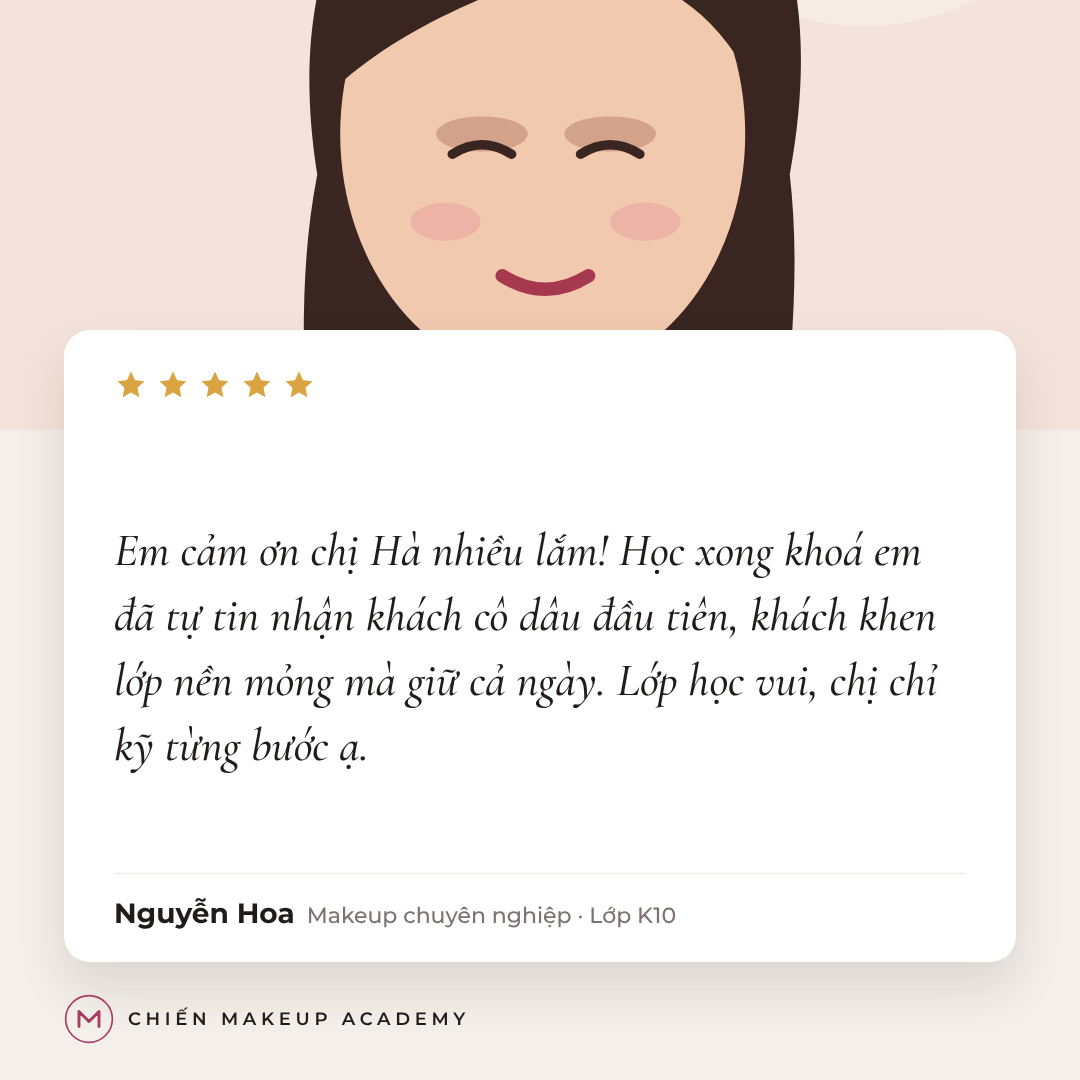
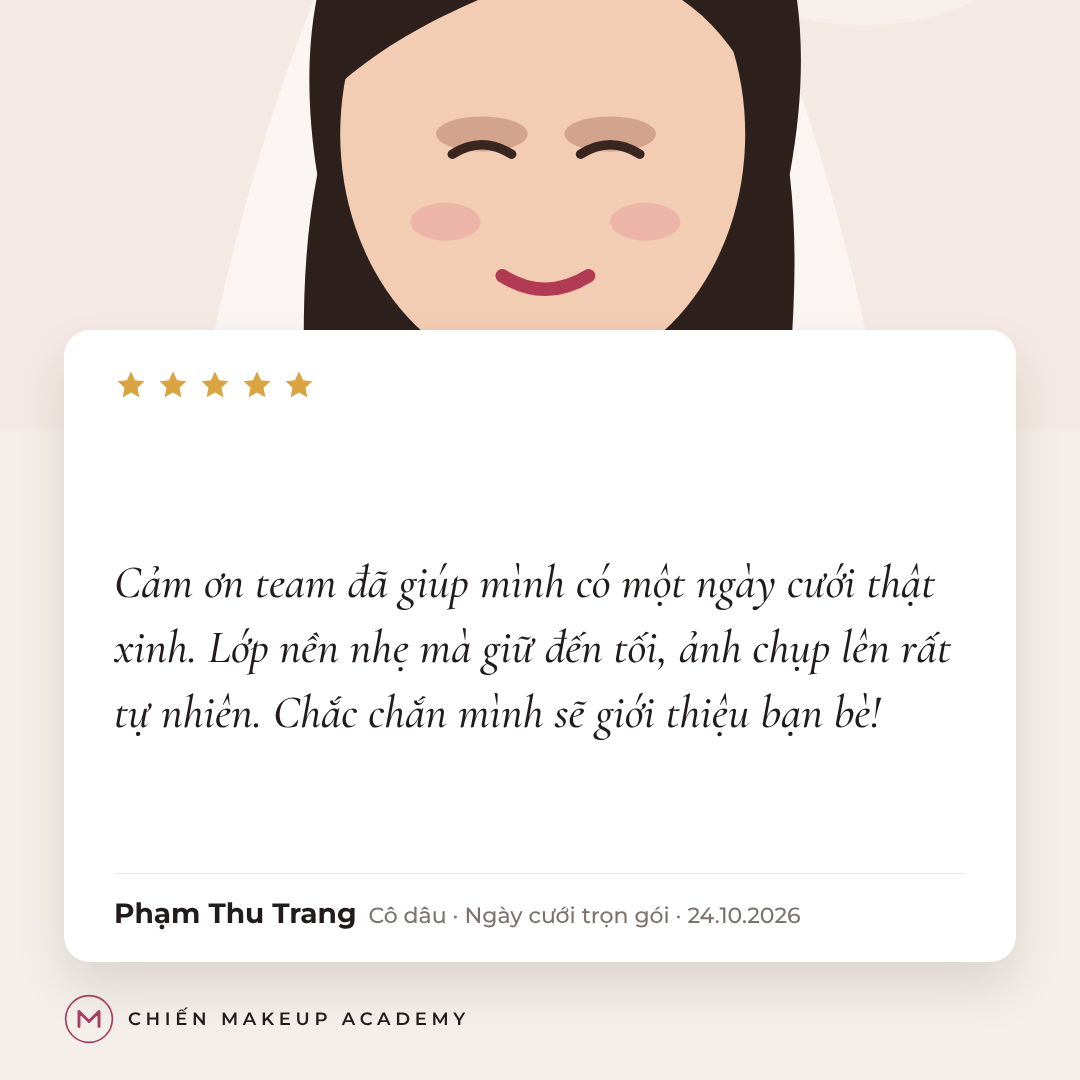
WIP các thợ đang làm (I, K, L, R&D 1–2, W4–W6) — CHƯA nghiệm thu, bản chụp hiện trạng
Claude-Session: https://claude.ai/code/session_01JtcbzsRF6LmqL5L8fC9fxM

Changed region(s): [[0.0917, 0.4889, 0.8861, 0.7028], [0.0917, 0.825, 0.7333, 0.8556]]

diff --git a/docs/rnd/v3-mau-loi-chuc/lc-06.html b/docs/rnd/v3-mau-loi-chuc/lc-06.html
@@ -1,0 +1,32 @@
+<!doctype html>
+<html lang="vi"><head><meta charset="utf-8"><meta name="viewport" content="width=1080">
+<title>Lời chúc lc-06 – Thiệp hoa lá gửi mẹ cô dâu</title>
+<!-- Makeup Pro · R&D vòng 3 · Mẫu lời chúc · Dùng cho: hợp đồng dịch vụ
+     Nguồn ý tưởng: Tự sáng tác (cùng họ với shd-09)
+     Ô dữ liệu: logo (Logo), th (Tên thương hiệu), a1 (Ảnh 1), td (Tiêu đề lời chúc), kh (Tên khách/học viên), cc (Câu chúc), nv (Nhân vật makeup), nsk (Ngày sự kiện)
+     Phông: MP Viết tay 3, MP Chữ có chân, MP Chữ không chân — khai báo ở ../v3-mau-chao-mung/phong/phong.css (phông viết tay là PHÔNG TẠM, thay một chỗ trong tệp đó).
+     Khổ: mặc định 1080×1350; thêm ?kho=vuong để ra 1080×1080. Thay dữ liệu bằng tham số đường dẫn (xem chung/mau.js).
+     Ảnh người và logo mặc định: vector do R&D tự vẽ. -->
+<link rel="stylesheet" href="../v3-mau-chao-mung/phong/phong.css"><link rel="stylesheet" href="../v3-mau-chao-mung/chung/mau.css">
+<style>
+#c{background:#F7ECE6;color:#3A2A27}
+.lf1{position:absolute;width:300px;height:300px;left:30px;bottom:30px}
+.lf2{position:absolute;width:300px;height:300px;right:30px;top:30px;transform:rotate(180deg)}
+.w{position:absolute;inset:0;display:flex;flex-direction:column;align-items:center;text-align:center;padding:66px 100px 58px}
+.top{display:flex;flex-direction:column;align-items:center;gap:10px}.top img{width:58px;height:58px}
+.th{font:500 17px var(--f-sans);letter-spacing:.32em;text-transform:uppercase;color:#9A6A5C}
+.cir{width:330px;height:330px;border-radius:50%;overflow:hidden;box-shadow:0 0 0 10px #F7ECE6,0 0 0 11.5px #B88A7C;margin-top:40px;flex:none}
+.td{font-family:var(--f-tay-3);font-size:calc(88px*var(--tay-co-3));color:#A0475C;margin-top:34px;line-height:1.05}
+.dg{font:italic 400 30px var(--f-chan);color:#6B4E47;margin-top:8px}
+.kh{font:600 46px/1.15 var(--f-chan);width:100%}
+.cc{font:italic 500 32px/1.45 var(--f-chan);color:#4A3632;margin-top:14px;flex:1 1 0;min-height:0;overflow:hidden;display:flex;flex-direction:column;justify-content:center}
+.ft{font:500 16px var(--f-sans);letter-spacing:.26em;text-transform:uppercase;color:#9A6A5C}
+.vuong .cir{width:210px;height:210px;margin-top:24px}.vuong .td{margin-top:18px;font-size:calc(74px*var(--tay-co-3))}.vuong .w{padding:46px 100px 40px}
+</style></head><body><div id="c"><div class="lf1"><svg viewBox="0 0 300 300" fill="none" stroke="#B88A7C" stroke-width="1.4"><path d="M20 280 C80 200 120 140 260 30"/><path d="M60 230 q-30 -40 10 -70 q20 40 -10 70z"/><path d="M75 222 q40 -10 70 10 q-40 20 -70 -10z"/><path d="M100 190 q-29 -40 10 -70 q20 40 -10 70z"/><path d="M115 182 q40 -10 70 10 q-40 20 -70 -10z"/><path d="M140 150 q-28 -40 10 -70 q20 40 -10 70z"/><path d="M155 142 q40 -10 70 10 q-40 20 -70 -10z"/><path d="M180 110 q-27 -40 10 -70 q20 40 -10 70z"/><path d="M195 102 q40 -10 70 10 q-40 20 -70 -10z"/><path d="M220 70 q-26 -40 10 -70 q20 40 -10 70z"/><path d="M235 62 q40 -10 70 10 q-40 20 -70 -10z"/></svg></div><div class="lf2"><svg viewBox="0 0 300 300" fill="none" stroke="#B88A7C" stroke-width="1.4"><path d="M20 280 C80 200 120 140 260 30"/><path d="M60 230 q-30 -40 10 -70 q20 40 -10 70z"/><path d="M75 222 q40 -10 70 10 q-40 20 -70 -10z"/><path d="M100 190 q-29 -40 10 -70 q20 40 -10 70z"/><path d="M115 182 q40 -10 70 10 q-40 20 -70 -10z"/><path d="M140 150 q-28 -40 10 -70 q20 40 -10 70z"/><path d="M155 142 q40 -10 70 10 q-40 20 -70 -10z"/><path d="M180 110 q-27 -40 10 -70 q20 40 -10 70z"/><path d="M195 102 q40 -10 70 10 q-40 20 -70 -10z"/><path d="M220 70 q-26 -40 10 -70 q20 40 -10 70z"/><path d="M235 62 q40 -10 70 10 q-40 20 -70 -10z"/></svg></div><div class="w">
+<div class="top"><img data-f="logo" alt=""><span class="th" data-f="th"></span></div>
+<div class="cir"><img class="ph" data-f="a1" alt=""></div>
+<div class="td" data-f="td" data-fit="1"></div><div class="dg">Thân gửi</div><div class="kh" data-f="kh" data-fit="1"></div>
+<div class="cc" data-fitc="34"><span data-f="cc"></span></div>
+<div class="ft"><span data-f="nv"></span> · Lễ cưới <span data-f="nskCham"></span></div></div></div>
+<script>window.MAC_DINH={"td": "Chúc mừng gia đình", "cc": "Chúc mừng gia đình đón thêm niềm vui lớn. Cảm ơn cô đã cho chúng con được chăm chút cho cô trong ngày đặc biệt này. Chúc cô luôn mạnh khoẻ và an vui.", "loai": "dv", "nv": "Mẹ cô dâu", "kh": "Nguyễn Thị Lan", "goi": "Mẹ – Trang điểm nhẹ nhàng", "a1": "../v3-mau-chao-mung/chung/anh-me-co-dau.svg"};</script>
+<script src="../v3-mau-chao-mung/chung/qrcode.js"></script><script src="../v3-mau-chao-mung/chung/mau.js"></script></body></html>

diff --git a/docs/rnd/v3-mau-loi-chuc/lc-05.html b/docs/rnd/v3-mau-loi-chuc/lc-05.html
@@ -1,0 +1,34 @@
+<!doctype html>
+<html lang="vi"><head><meta charset="utf-8"><meta name="viewport" content="width=1080">
+<title>Lời chúc lc-05 – Chúc mừng hoàn thành khoá học</title>
+<!-- Makeup Pro · R&D vòng 3 · Mẫu lời chúc · Dùng cho: hợp đồng khoá học
+     Nguồn ý tưởng: Tự sáng tác (cùng họ với shd-10)
+     Ô dữ liệu: logo (Logo), th (Tên thương hiệu), anh (Ảnh học viên), td (Tiêu đề lời chúc), ten (Tên học viên), cc (Câu chúc), khoa (Tên khoá), lop (Mã lớp), nkt (Ngày hoàn thành khoá), gv (Giảng viên)
+     Phông: MP Viết tay 1, MP Viết tay 3, MP Chữ có chân, MP Chữ không chân — khai báo ở ../v3-mau-chao-mung/phong/phong.css (phông viết tay là PHÔNG TẠM, thay một chỗ trong tệp đó).
+     Khổ: mặc định 1080×1350; thêm ?kho=vuong để ra 1080×1080. Thay dữ liệu bằng tham số đường dẫn (xem chung/mau.js).
+     Ảnh người và logo mặc định: vector do R&D tự vẽ. -->
+<link rel="stylesheet" href="../v3-mau-chao-mung/phong/phong.css"><link rel="stylesheet" href="../v3-mau-chao-mung/chung/mau.css">
+<style>
+#c{background:#1C2333;color:#EFE3CC}
+.fr{position:absolute;inset:40px;border:1px solid rgba(230,211,179,.45)}
+.w{position:absolute;inset:40px;display:flex;flex-direction:column;align-items:center;text-align:center;padding:56px 80px 52px}
+.top{display:flex;align-items:center;gap:14px}
+.ld{width:58px;height:58px;border-radius:50%;background:#EFE3CC;display:grid;place-items:center}.ld img{width:46px;height:46px}
+.th{font:500 18px var(--f-sans);letter-spacing:.28em;text-transform:uppercase;color:#E6D3B3}
+.cir{width:260px;height:260px;border-radius:50%;overflow:hidden;border:2px solid #E6D3B3;margin-top:48px;flex:none}
+.td{font-family:var(--f-tay-1);font-size:calc(96px*var(--tay-co-1));line-height:1.1;color:#E6D3B3;margin-top:34px}
+.ten{font:600 50px/1.15 var(--f-chan);margin-top:4px;width:100%}
+.kh{font:500 19px var(--f-sans);letter-spacing:.26em;text-transform:uppercase;color:#CDBB9C;margin-top:14px}
+.cc{font:400 33px/1.5 var(--f-chan);margin-top:16px;flex:1 1 0;min-height:0;overflow:hidden;display:flex;flex-direction:column;justify-content:center}
+.sg{display:flex;justify-content:space-between;align-items:flex-end;width:100%;text-align:left}
+.sg .n{font-family:var(--f-tay-3);font-size:calc(56px*var(--tay-co-3));color:#E6D3B3;line-height:1.1}
+.sg .r{font:500 15px var(--f-sans);letter-spacing:.24em;text-transform:uppercase;color:#A99C86;margin-top:4px}
+.vuong .cir{width:170px;height:170px;margin-top:30px}.vuong .td{margin-top:18px;font-size:calc(80px*var(--tay-co-1))}.vuong .w{padding:42px 70px 40px}.vuong .ten{font-size:42px}
+</style></head><body><div id="c"><div class="fr"></div><div class="w"><div class="top"><span class="ld"><img data-f="logo" alt=""></span><span class="th" data-f="th"></span></div>
+<div class="cir"><img class="ph" data-f="anh" alt=""></div>
+<div class="td" data-f="td" data-fit="1"></div><div class="ten" data-f="ten" data-fit="2"></div>
+<div class="kh"><span data-f="khoa"></span> · Lớp <span data-f="lop"></span></div>
+<div class="cc" data-fitc="35"><span data-f="cc"></span></div>
+<div class="sg"><div><div class="n" data-f="gv"></div><div class="r">Giảng viên</div></div><div style="text-align:right"><div class="r">Hoàn thành</div><div class="r" style="color:#EFE3CC" data-f="nktCham"></div></div></div></div></div>
+<script>window.MAC_DINH={"td": "Chúc mừng em", "cc": "Chúc mừng em đã hoàn thành khoá học. Chúc em vững tay nghề, tự tin trên con đường trở thành chuyên viên trang điểm.", "loai": "khoa", "ten": "Nguyễn Hoa", "khoa": "Makeup chuyên nghiệp", "lop": "K10"};</script>
+<script src="../v3-mau-chao-mung/chung/qrcode.js"></script><script src="../v3-mau-chao-mung/chung/mau.js"></script></body></html>

diff --git a/docs/rnd/v3-mau-loi-chuc/lc-04.html b/docs/rnd/v3-mau-loi-chuc/lc-04.html
@@ -1,0 +1,32 @@
+<!doctype html>
+<html lang="vi"><head><meta charset="utf-8"><meta name="viewport" content="width=1080">
+<title>Lời chúc lc-04 – Hai ảnh nghiêng, xanh rêu</title>
+<!-- Makeup Pro · R&D vòng 3 · Mẫu lời chúc · Dùng cho: hợp đồng dịch vụ
+     Nguồn ý tưởng: Tự sáng tác
+     Ô dữ liệu: a1 (Ảnh 1), a2 (Ảnh 2), td (Tiêu đề lời chúc), kh (Tên khách/học viên), cc (Câu chúc), nsk (Ngày sự kiện), logo (Logo), th (Tên thương hiệu)
+     Phông: MP Viết tay 1, MP Chữ có chân, MP Chữ không chân — khai báo ở ../v3-mau-chao-mung/phong/phong.css (phông viết tay là PHÔNG TẠM, thay một chỗ trong tệp đó).
+     Khổ: mặc định 1080×1350; thêm ?kho=vuong để ra 1080×1080. Thay dữ liệu bằng tham số đường dẫn (xem chung/mau.js).
+     Ảnh người và logo mặc định: vector do R&D tự vẽ. -->
+<link rel="stylesheet" href="../v3-mau-chao-mung/phong/phong.css"><link rel="stylesheet" href="../v3-mau-chao-mung/chung/mau.css">
+<style>
+#c{background:#1F3A33;color:#EFE7DA}
+.w{position:absolute;inset:0;display:flex;flex-direction:column;align-items:center;text-align:center;padding:60px 80px 54px}
+.top{display:flex;align-items:center;gap:14px}
+.ld{width:58px;height:58px;border-radius:50%;background:#EFE7DA;display:grid;place-items:center}.ld img{width:46px;height:46px}
+.th{font:500 18px var(--f-sans);letter-spacing:.3em;text-transform:uppercase;color:#C9B99A}
+.ph2{position:relative;width:640px;height:470px;margin-top:40px;flex:none}
+.ph2 div{position:absolute;width:330px;height:420px;background:#F6F1E8;padding:12px;box-shadow:0 18px 34px rgba(0,0,0,.25)}
+.ph2 div img{width:100%;height:100%;object-fit:cover}
+.ph2 .p1{left:20px;top:30px;transform:rotate(-6deg)}.ph2 .p2{right:20px;top:10px;transform:rotate(5deg)}
+.td{font-family:var(--f-tay-1);font-size:calc(92px*var(--tay-co-1));line-height:1.1;margin-top:34px;width:100%}
+.kh{font:600 42px/1.15 var(--f-chan);margin-top:4px;width:100%}
+.cc{font:italic 400 32px/1.45 var(--f-chan);color:#DCD3C3;margin-top:14px;flex:1 1 0;min-height:0;overflow:hidden;display:flex;flex-direction:column;justify-content:center}
+.ft{font:500 17px var(--f-sans);letter-spacing:.26em;text-transform:uppercase;color:#C9B99A}
+.vuong .ph2{width:520px;height:330px;margin-top:26px}.vuong .ph2 div{width:250px;height:300px}.vuong .td{margin-top:20px;font-size:calc(76px*var(--tay-co-1))}.vuong .w{padding:44px 80px 40px}
+</style></head><body><div id="c"><div class="w"><div class="top"><span class="ld"><img data-f="logo" alt=""></span><span class="th" data-f="th"></span></div>
+<div class="ph2"><div class="p1"><img data-f="a1" alt=""></div><div class="p2"><img data-f="a2" alt=""></div></div>
+<div class="td" data-f="td" data-fit="1"></div><div class="kh" data-f="kh" data-fit="1"></div>
+<div class="cc" data-fitc="34"><span data-f="cc"></span></div>
+<div class="ft"><span data-f="goi"></span> · <span data-f="nskCham"></span></div></div></div>
+<script>window.MAC_DINH={"td": "Chúc mừng lễ ăn hỏi", "cc": "Chúc mừng lễ ăn hỏi của hai bạn. Chúc chặng đường phía trước luôn ngập tràn yêu thương, thấu hiểu và bình an.", "loai": "dv", "goi": "Cô dâu – Lễ ăn hỏi", "nsk": "08/11/2026", "kh": "Hoàng Bảo Anh"};</script>
+<script src="../v3-mau-chao-mung/chung/qrcode.js"></script><script src="../v3-mau-chao-mung/chung/mau.js"></script></body></html>

diff --git a/docs/rnd/v3-mau-loi-chuc/lc-01.html b/docs/rnd/v3-mau-loi-chuc/lc-01.html
@@ -1,0 +1,31 @@
+<!doctype html>
+<html lang="vi"><head><meta charset="utf-8"><meta name="viewport" content="width=1080">
+<title>Lời chúc lc-01 – Thiệp kem chúc mừng ngày cưới</title>
+<!-- Makeup Pro · R&D vòng 3 · Mẫu lời chúc · Dùng cho: hợp đồng dịch vụ
+     Nguồn ý tưởng: Tự sáng tác (cùng họ với shd-01 thư mời kem)
+     Ô dữ liệu: logo (Logo), th (Tên thương hiệu), a1 (Ảnh 1), nv (Nhân vật makeup), kh (Tên khách/học viên), td (Tiêu đề lời chúc), cc (Câu chúc), nsk (Ngày sự kiện)
+     Phông: MP Viết tay 1, MP Chữ có chân, MP Chữ không chân — khai báo ở ../v3-mau-chao-mung/phong/phong.css (phông viết tay là PHÔNG TẠM, thay một chỗ trong tệp đó).
+     Khổ: mặc định 1080×1350; thêm ?kho=vuong để ra 1080×1080. Thay dữ liệu bằng tham số đường dẫn (xem chung/mau.js).
+     Ảnh người và logo mặc định: vector do R&D tự vẽ. -->
+<link rel="stylesheet" href="../v3-mau-chao-mung/phong/phong.css"><link rel="stylesheet" href="../v3-mau-chao-mung/chung/mau.css">
+<style>
+#c{background:#F5EFE4;color:#2A2420}
+.b1{position:absolute;inset:40px;border:1.5px solid #B8975A}.b2{position:absolute;inset:52px;border:.75px solid #B8975A}
+.w{position:absolute;inset:52px;display:flex;flex-direction:column;align-items:center;text-align:center;padding:50px 80px 46px}
+.top{display:flex;align-items:center;gap:12px}.top img{width:54px;height:54px}.top span{font:500 18px var(--f-sans);letter-spacing:.3em;text-transform:uppercase;color:#7A6340}
+.ov{width:340px;height:420px;border-radius:50%;overflow:hidden;box-shadow:0 0 0 10px #F5EFE4,0 0 0 11.5px #B8975A;margin-top:38px;flex:none}
+.td{font-family:var(--f-tay-1);font-size:calc(96px*var(--tay-co-1));line-height:1.1;color:#8C6A3E;margin-top:34px}
+.dg{font:italic 400 30px var(--f-chan);color:#5C4E3E;margin-top:10px}
+.kh{font:600 46px/1.15 var(--f-chan);letter-spacing:.04em;text-transform:uppercase;width:100%}
+.cc{font:italic 500 33px/1.45 var(--f-chan);margin-top:18px;flex:1 1 0;min-height:0;overflow:hidden;display:flex;flex-direction:column;justify-content:center}
+.ft{font:500 17px var(--f-sans);letter-spacing:.28em;text-transform:uppercase;color:#7A6340}
+.vuong .ov{width:220px;height:270px;margin-top:24px}.vuong .td{margin-top:20px;font-size:calc(80px*var(--tay-co-1))}.vuong .w{padding:38px 70px 34px}.vuong .kh{font-size:40px}
+</style></head><body><div id="c"><div class="b1"></div><div class="b2"></div><div class="w">
+<div class="top"><img data-f="logo" alt=""><span data-f="th"></span></div>
+<div class="ov"><img class="ph" data-f="a1" alt=""></div>
+<div class="td" data-f="td" data-fit="1"></div>
+<div class="dg">Thân gửi <span data-f="nvThuong"></span></div><div class="kh" data-f="kh" data-fit="2"></div>
+<div class="cc" data-fitc="36"><span data-f="cc"></span></div>
+<div class="ft" data-f="nskChu"></div></div></div>
+<script>window.MAC_DINH={"td": "Trăm năm hạnh phúc", "cc": "Chúc hai bạn trăm năm hạnh phúc, luôn giữ trọn yêu thương như ngày hôm nay. Cảm ơn bạn đã tin tưởng để chúng tôi được góp một phần nhỏ vào ngày trọng đại.", "loai": "dv"};</script>
+<script src="../v3-mau-chao-mung/chung/qrcode.js"></script><script src="../v3-mau-chao-mung/chung/mau.js"></script></body></html>

diff --git a/docs/rnd/v3-mau-loi-chuc/lc-02.html b/docs/rnd/v3-mau-loi-chuc/lc-02.html
@@ -1,0 +1,30 @@
+<!doctype html>
+<html lang="vi"><head><meta charset="utf-8"><meta name="viewport" content="width=1080">
+<title>Lời chúc lc-02 – Đen vàng cảm ơn đã tin chọn</title>
+<!-- Makeup Pro · R&D vòng 3 · Mẫu lời chúc · Dùng cho: cả hợp đồng khoá học và dịch vụ (?loai=khoa|dv)
+     Nguồn ý tưởng: Tự sáng tác (cùng họ với shd-02)
+     Ô dữ liệu: logo (Logo), th (Tên thương hiệu), a1 (Ảnh 1), td (Tiêu đề lời chúc), kh (Tên khách/học viên), cc (Câu chúc), dv (Khoá học hoặc dịch vụ)
+     Phông: MP Viết tay 1, MP Chữ có chân, MP Chữ không chân — khai báo ở ../v3-mau-chao-mung/phong/phong.css (phông viết tay là PHÔNG TẠM, thay một chỗ trong tệp đó).
+     Khổ: mặc định 1080×1350; thêm ?kho=vuong để ra 1080×1080. Thay dữ liệu bằng tham số đường dẫn (xem chung/mau.js).
+     Ảnh người và logo mặc định: vector do R&D tự vẽ. -->
+<link rel="stylesheet" href="../v3-mau-chao-mung/phong/phong.css"><link rel="stylesheet" href="../v3-mau-chao-mung/chung/mau.css">
+<style>
+#c{background:#131212;color:#F3EBDD}
+.fr{position:absolute;inset:36px;border:1px solid #C9A961}
+.w{position:absolute;inset:36px;display:flex;flex-direction:column;align-items:center;text-align:center;padding:54px 80px 48px}
+.top{display:flex;align-items:center;gap:14px}
+.ld{width:60px;height:60px;border-radius:50%;background:#F3EBDD;display:grid;place-items:center}.ld img{width:48px;height:48px}
+.th{font:500 19px var(--f-sans);letter-spacing:.3em;color:#C9A961;text-transform:uppercase}
+.ar{width:400px;height:470px;border-radius:200px 200px 0 0;overflow:hidden;outline:1px solid #C9A961;outline-offset:12px;margin-top:52px;flex:none}
+.td{font-family:var(--f-tay-1);font-size:calc(88px*var(--tay-co-1));color:#C9A961;line-height:1.1;margin-top:40px;width:100%}
+.kh{font:600 44px/1.15 var(--f-chan);text-transform:uppercase;letter-spacing:.06em;margin-top:8px;width:100%}
+.cc{font:400 32px/1.5 var(--f-chan);color:#E5DCCB;margin-top:16px;flex:1 1 0;min-height:0;overflow:hidden;display:flex;flex-direction:column;justify-content:center}
+.ft{font:500 17px var(--f-sans);letter-spacing:.22em;color:#A59C8E;text-transform:uppercase}
+.vuong .ar{width:270px;height:300px;margin-top:34px}.vuong .td{margin-top:28px;font-size:calc(72px*var(--tay-co-1))}.vuong .w{padding:40px 80px 36px}.vuong .kh{font-size:38px}
+</style></head><body><div id="c"><div class="fr"></div><div class="w"><div class="top"><span class="ld"><img data-f="logo" alt=""></span><span class="th" data-f="th"></span></div>
+<div class="ar"><img class="ph" data-f="a1" alt=""></div>
+<div class="td" data-f="td" data-fit="2"></div><div class="kh" data-f="kh" data-fit="2"></div>
+<div class="cc" data-fitc="34"><span data-f="cc"></span></div>
+<div class="ft" data-f="dv" data-fitw style="white-space:nowrap;max-width:100%"></div></div></div>
+<script>window.MAC_DINH={"td": "Cảm ơn bạn đã tin chọn", "cc": "Cảm ơn bạn đã dành cho chúng tôi sự tin tưởng. Mong rằng mỗi khoảnh khắc trong ngày đặc biệt đều rạng rỡ như chính bạn.", "loai": "dv"};</script>
+<script src="../v3-mau-chao-mung/chung/qrcode.js"></script><script src="../v3-mau-chao-mung/chung/mau.js"></script></body></html>

diff --git a/docs/rnd/v3-mau-loi-chuc/lc-03.html b/docs/rnd/v3-mau-loi-chuc/lc-03.html
@@ -1,0 +1,29 @@
+<!doctype html>
+<html lang="vi"><head><meta charset="utf-8"><meta name="viewport" content="width=1080">
+<title>Lời chúc lc-03 – Ảnh lớn, khung trắng</title>
+<!-- Makeup Pro · R&D vòng 3 · Mẫu lời chúc · Dùng cho: hợp đồng dịch vụ
+     Nguồn ý tưởng: Tự sáng tác
+     Ô dữ liệu: a1 (Ảnh 1), logo (Logo), th (Tên thương hiệu), td (Tiêu đề lời chúc), kh (Tên khách/học viên), cc (Câu chúc), nv (Nhân vật makeup), goi (Tên gói), nsk (Ngày sự kiện)
+     Phông: MP Viết tay 3, MP Chữ có chân, MP Chữ không chân — khai báo ở ../v3-mau-chao-mung/phong/phong.css (phông viết tay là PHÔNG TẠM, thay một chỗ trong tệp đó).
+     Khổ: mặc định 1080×1350; thêm ?kho=vuong để ra 1080×1080. Thay dữ liệu bằng tham số đường dẫn (xem chung/mau.js).
+     Ảnh người và logo mặc định: vector do R&D tự vẽ. -->
+<link rel="stylesheet" href="../v3-mau-chao-mung/phong/phong.css"><link rel="stylesheet" href="../v3-mau-chao-mung/chung/mau.css">
+<style>
+#c{background:#000}
+.bgp{position:absolute;inset:0}
+.th0{position:absolute;left:56px;top:52px;display:flex;align-items:center;gap:12px;background:#FFFDF9;padding:10px 20px 10px 12px;border-radius:40px}
+.th0 img{width:42px;height:42px}.th0 span{font:600 16px var(--f-sans);letter-spacing:.24em;text-transform:uppercase;color:#2A2420}
+.pn{position:absolute;left:56px;right:56px;bottom:56px;height:540px;background:#FFFDF9;padding:40px 56px 38px;display:flex;flex-direction:column;color:#231E1D}
+.pn:before{content:"";position:absolute;inset:14px;border:1px solid #D9C9B0;pointer-events:none}
+.td{font-family:var(--f-tay-3);font-size:calc(92px*var(--tay-co-3));line-height:1.05;color:#A0475C}
+.kh{font:600 40px/1.2 var(--f-chan);margin-top:6px}
+.cc{font:italic 500 33px/1.45 var(--f-chan);margin-top:14px;flex:1 1 0;min-height:0;overflow:hidden}
+.ft{font:500 16px var(--f-sans);letter-spacing:.24em;text-transform:uppercase;color:#8B8079}
+.vuong .pn{height:470px;padding:34px 50px 32px}.vuong .td{font-size:calc(80px*var(--tay-co-3))}
+</style></head><body><div id="c"><div class="bgp"><img class="ph" data-f="a1" alt=""></div>
+<div class="th0"><img data-f="logo" alt=""><span data-f="th"></span></div>
+<div class="pn"><div class="td" data-f="td" data-fit="1"></div><div class="kh" data-f="kh" data-fit="1"></div>
+<div class="cc" data-f="cc" data-fitc="36"></div>
+<div class="ft"><span data-f="nv"></span> · <span data-f="goi"></span> · <span data-f="nskCham"></span></div></div></div>
+<script>window.MAC_DINH={"td": "Luôn toả sáng", "cc": "Cảm ơn bạn đã chọn chúng tôi cho ngày đặc biệt. Chúc bạn luôn tự tin và toả sáng theo cách riêng của mình.", "loai": "dv", "nv": "Khách dự tiệc", "goi": "Trang điểm dự tiệc", "kh": "Lê Minh Châu", "nsk": "31/10/2026", "a1": "../v3-mau-chao-mung/chung/anh-fb-2.svg"};</script>
+<script src="../v3-mau-chao-mung/chung/qrcode.js"></script><script src="../v3-mau-chao-mung/chung/mau.js"></script></body></html>

diff --git a/docs/rnd/v3-mau-feedback/fb-02.html b/docs/rnd/v3-mau-feedback/fb-02.html
@@ -1,7 +1,7 @@
 <!doctype html>
 <html lang="vi"><head><meta charset="utf-8"><meta name="viewport" content="width=1080">
 <title>Mẫu feedback fb-02 – Thẻ trắng nổi có sao</title>
-<!-- Makeup Pro · R&D vòng 3 · Mẫu feedback
+<!-- Makeup Pro · R&D vòng 3 · Mẫu feedback · Dùng cho: cả hợp đồng khoá học và dịch vụ (?loai=khoa|dv)
      Nguồn ý tưởng: Học từ ảnh 3–4 (thẻ trắng nổi, lời nhận xét, ảnh khách, sao đánh giá)
      Ô dữ liệu: nd (Nội dung lời khen), sao (Số sao), a1 (Ảnh 1), kh (Tên khách/học viên), dv (Khoá học hoặc dịch vụ), logo (Logo), th (Tên thương hiệu), web (Website)
      Phông: MP Chữ đậm có chân, MP Chữ không chân — khai báo ở ../v3-mau-chao-mung/phong/phong.css (phông viết tay là PHÔNG TẠM, thay một chỗ trong tệp đó).
@@ -22,9 +22,9 @@
 .ft{display:flex;align-items:center;gap:14px;margin-top:36px}.ft img{width:48px;height:48px}.ft span{font:600 18px var(--f-sans);letter-spacing:.24em;text-transform:uppercase}.ft i{font:400 20px var(--f-sans);color:#7C7370;font-style:normal}
 .vuong .w{padding:52px 80px 44px}.vuong .tt{font-size:52px}.vuong .cd{margin-top:30px;padding:44px 56px 38px}.vuong .nd{font-size:28px}
 .nd{display:flex;flex-direction:column;justify-content:center}
-</style></head><body><div id="c"><div class="w"><div class="tt">Cảm nhận của học viên</div>
+</style></head><body><div id="c"><div class="w"><div class="tt" data-f="camNhan"></div>
 <div class="cd"><div class="q">“</div><div class="sao" data-sao></div><div class="nd" data-f="nd" data-fitc="46"></div>
 <div class="pr"><div class="a"><img class="ph" data-f="a1" alt=""></div><div><b data-f="kh"></b><span data-f="dv"></span></div></div></div>
 <div class="ft"><img data-f="logo" alt=""><span data-f="th"></span><i>· <span data-f="web"></span></i></div></div></div>
-<script>window.MAC_DINH={};</script>
+<script>window.MAC_DINH={"loai": "dv"};</script>
 <script src="../v3-mau-chao-mung/chung/qrcode.js"></script><script src="../v3-mau-chao-mung/chung/mau.js"></script></body></html>

diff --git a/docs/rnd/v3-mau-feedback/fb-09.html b/docs/rnd/v3-mau-feedback/fb-09.html
@@ -1,7 +1,7 @@
 <!doctype html>
 <html lang="vi"><head><meta charset="utf-8"><meta name="viewport" content="width=1080">
 <title>Mẫu feedback fb-09 – Trước – sau</title>
-<!-- Makeup Pro · R&D vòng 3 · Mẫu feedback
+<!-- Makeup Pro · R&D vòng 3 · Mẫu feedback · Dùng cho: hợp đồng dịch vụ
      Nguồn ý tưởng: Tự sáng tác (hợp cho khách dịch vụ makeup)
      Ô dữ liệu: a1 (Ảnh 1), a2 (Ảnh 2), nd (Nội dung lời khen), kh (Tên khách/học viên), dv (Khoá học hoặc dịch vụ), logo (Logo), th (Tên thương hiệu)
      Phông: MP Chữ đậm có chân, MP Chữ không chân — khai báo ở ../v3-mau-chao-mung/phong/phong.css (phông viết tay là PHÔNG TẠM, thay một chỗ trong tệp đó).
@@ -25,5 +25,5 @@
 <div class="tt">Cảm nhận sau buổi makeup</div>
 <div class="ts"><div><img class="ph" data-f="a1" alt=""><em>TRƯỚC</em></div><div><img class="ph" data-f="a2" alt=""><em>SAU</em></div></div>
 <div class="nd" data-f="nd" data-fitc="40"></div><div class="pr"><b data-f="kh"></b><span data-f="dv"></span></div></div></div>
-<script>window.MAC_DINH={"a1": "../v3-mau-chao-mung/chung/anh-truoc.svg", "a2": "../v3-mau-chao-mung/chung/anh-sau.svg", "kh": "Phạm Thu Trang", "dv": "Makeup cô dâu · 16/10/2026", "nd": "Cảm ơn team đã giúp mình có một ngày cưới thật xinh. Lớp nền nhẹ mà giữ đến tối, ảnh chụp lên rất tự nhiên. Chắc chắn sẽ giới thiệu bạn bè!"};</script>
+<script>window.MAC_DINH={"a1": "../v3-mau-chao-mung/chung/anh-truoc.svg", "a2": "../v3-mau-chao-mung/chung/anh-sau.svg", "loai": "dv"};</script>
 <script src="../v3-mau-chao-mung/chung/qrcode.js"></script><script src="../v3-mau-chao-mung/chung/mau.js"></script></body></html>

diff --git a/docs/rnd/v3-mau-feedback/fb-01.html b/docs/rnd/v3-mau-feedback/fb-01.html
@@ -1,7 +1,7 @@
 <!doctype html>
 <html lang="vi"><head><meta charset="utf-8"><meta name="viewport" content="width=1080">
 <title>Mẫu feedback fb-01 – Tin nhắn và ảnh polaroid</title>
-<!-- Makeup Pro · R&D vòng 3 · Mẫu feedback
+<!-- Makeup Pro · R&D vòng 3 · Mẫu feedback · Dùng cho: cả hợp đồng khoá học và dịch vụ (?loai=khoa|dv)
      Nguồn ý tưởng: Học từ ảnh 2 (bong bóng tin nhắn, polaroid nghiêng, chữ viết tay cảm ơn)
      Ô dữ liệu: logo (Logo), th (Tên thương hiệu), nd (Nội dung lời khen), a1 (Ảnh 1), kh (Tên khách/học viên), dv (Khoá học hoặc dịch vụ)
      Phông: MP Viết tay 3, MP Chữ không chân — khai báo ở ../v3-mau-chao-mung/phong/phong.css (phông viết tay là PHÔNG TẠM, thay một chỗ trong tệp đó).
@@ -26,9 +26,9 @@
 .vuong .pol{width:330px}.vuong .pol .p{height:330px}.vuong .k1{margin-top:28px}
 .row .chat{justify-content:center}
 </style></head><body><div id="c"><div class="w"><div class="top"><img data-f="logo" alt=""><span class="th" data-f="th"></span></div>
-<div class="k1">Học viên nhắn cho lớp</div>
+<div class="k1" data-f="nhanFb"></div>
 <div class="row"><div class="chat" data-chat="3" data-fitc="38"></div>
 <div class="pol"><div class="p"><img class="ph" data-f="a1" alt=""></div><div class="c">Cảm ơn nhiều!</div></div></div>
 <div class="ft"><b data-f="kh"></b><span data-f="dv"></span></div></div></div>
-<script>window.MAC_DINH={};</script>
+<script>window.MAC_DINH={"loai": "khoa"};</script>
 <script src="../v3-mau-chao-mung/chung/qrcode.js"></script><script src="../v3-mau-chao-mung/chung/mau.js"></script></body></html>

diff --git a/docs/rnd/v3-mau-feedback/fb-07.html b/docs/rnd/v3-mau-feedback/fb-07.html
@@ -1,7 +1,7 @@
 <!doctype html>
 <html lang="vi"><head><meta charset="utf-8"><meta name="viewport" content="width=1080">
 <title>Mẫu feedback fb-07 – Khung điện thoại tin nhắn</title>
-<!-- Makeup Pro · R&D vòng 3 · Mẫu feedback
+<!-- Makeup Pro · R&D vòng 3 · Mẫu feedback · Dùng cho: cả hợp đồng khoá học và dịch vụ (?loai=khoa|dv)
      Nguồn ý tưởng: Học từ ảnh 2 (nội dung dạng tin nhắn) — biến thể khung điện thoại
      Ô dữ liệu: a1 (Ảnh 1), kh (Tên khách/học viên), nd (Nội dung lời khen), nfb (Ngày nhận lời khen), dv (Khoá học hoặc dịch vụ), logo (Logo), th (Tên thương hiệu)
      Phông: MP Viết tay 1, MP Chữ không chân — khai báo ở ../v3-mau-chao-mung/phong/phong.css (phông viết tay là PHÔNG TẠM, thay một chỗ trong tệp đó).
@@ -25,5 +25,5 @@
 </style></head><body><div id="c"><div class="ph0"><div class="sc"><div class="hd"><div class="a"><img class="ph" data-f="a1" alt=""></div><div><b data-f="kh"></b><span data-f="nfbCham"></span></div></div>
 <div class="chat" data-chat="3" data-fitc="32"></div></div></div>
 <div class="rt"><img class="lg" data-f="logo" alt=""><div class="th" data-f="th"></div><div class="hw">Cảm ơn bạn đã tin tưởng</div><div class="dv" data-f="dv"></div></div></div>
-<script>window.MAC_DINH={};</script>
+<script>window.MAC_DINH={"loai": "dv"};</script>
 <script src="../v3-mau-chao-mung/chung/qrcode.js"></script><script src="../v3-mau-chao-mung/chung/mau.js"></script></body></html>

diff --git a/docs/rnd/v3-mau-feedback/fb-04.html b/docs/rnd/v3-mau-feedback/fb-04.html
@@ -1,7 +1,7 @@
 <!doctype html>
 <html lang="vi"><head><meta charset="utf-8"><meta name="viewport" content="width=1080">
 <title>Mẫu feedback fb-04 – Thư cảm ơn nền kem</title>
-<!-- Makeup Pro · R&D vòng 3 · Mẫu feedback
+<!-- Makeup Pro · R&D vòng 3 · Mẫu feedback · Dùng cho: cả hợp đồng khoá học và dịch vụ (?loai=khoa|dv)
      Nguồn ý tưởng: Tự sáng tác
      Ô dữ liệu: nd (Nội dung lời khen), kh (Tên khách/học viên), dv (Khoá học hoặc dịch vụ), nfb (Ngày nhận lời khen), a1 (Ảnh 1), a2 (Ảnh 2), a3 (Ảnh 3), logo (Logo), th (Tên thương hiệu)
      Phông: MP Viết tay 1, MP Viết tay 3, MP Chữ có chân, MP Chữ không chân — khai báo ở ../v3-mau-chao-mung/phong/phong.css (phông viết tay là PHÔNG TẠM, thay một chỗ trong tệp đó).
@@ -24,5 +24,5 @@
 <div class="sg" data-f="kh"></div><div class="mt"><span data-f="dv"></span> · <span data-f="nfbCham"></span></div>
 <div class="ph3"><div><img class="ph" data-f="a1" alt=""></div><div><img class="ph" data-f="a2" alt=""></div><div><img class="ph" data-f="a3" alt=""></div></div>
 <div class="ft"><img data-f="logo" alt=""><span data-f="th"></span></div></div></div>
-<script>window.MAC_DINH={};</script>
+<script>window.MAC_DINH={"loai": "khoa"};</script>
 <script src="../v3-mau-chao-mung/chung/qrcode.js"></script><script src="../v3-mau-chao-mung/chung/mau.js"></script></body></html>

diff --git a/docs/rnd/v3-mau-feedback/fb-06.html b/docs/rnd/v3-mau-feedback/fb-06.html
@@ -1,7 +1,7 @@
 <!doctype html>
 <html lang="vi"><head><meta charset="utf-8"><meta name="viewport" content="width=1080">
 <title>Mẫu feedback fb-06 – Lưới ba ảnh</title>
-<!-- Makeup Pro · R&D vòng 3 · Mẫu feedback
+<!-- Makeup Pro · R&D vòng 3 · Mẫu feedback · Dùng cho: cả hợp đồng khoá học và dịch vụ (?loai=khoa|dv)
      Nguồn ý tưởng: Tự sáng tác
      Ô dữ liệu: a1 (Ảnh 1), a2 (Ảnh 2), a3 (Ảnh 3), nd (Nội dung lời khen), kh (Tên khách/học viên), dv (Khoá học hoặc dịch vụ), logo (Logo), th (Tên thương hiệu)
      Phông: MP Chữ có chân, MP Chữ không chân — khai báo ở ../v3-mau-chao-mung/phong/phong.css (phông viết tay là PHÔNG TẠM, thay một chỗ trong tệp đó).
@@ -21,5 +21,5 @@
 </style></head><body><div id="c"><div class="gr"><div><img class="ph" data-f="a1" alt=""></div><div><img class="ph" data-f="a2" alt=""></div><div><img class="ph" data-f="a3" alt=""></div></div>
 <div class="w"><div class="nd" data-f="nd" data-fitc="44"></div><div class="pr"><b data-f="kh"></b><span data-f="dv"></span></div>
 <div class="ft"><img data-f="logo" alt=""><span data-f="th"></span></div></div></div>
-<script>window.MAC_DINH={};</script>
+<script>window.MAC_DINH={"loai": "khoa"};</script>
 <script src="../v3-mau-chao-mung/chung/qrcode.js"></script><script src="../v3-mau-chao-mung/chung/mau.js"></script></body></html>
